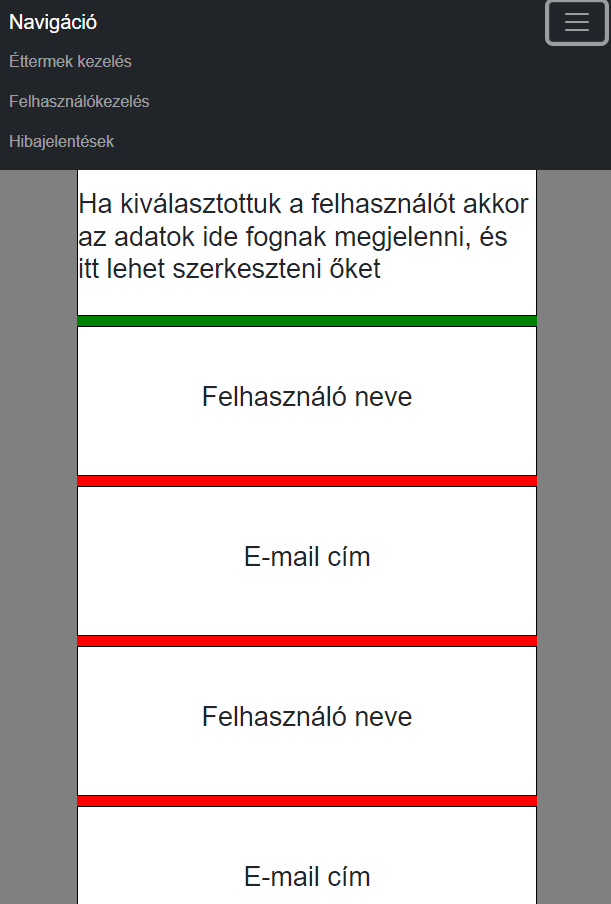
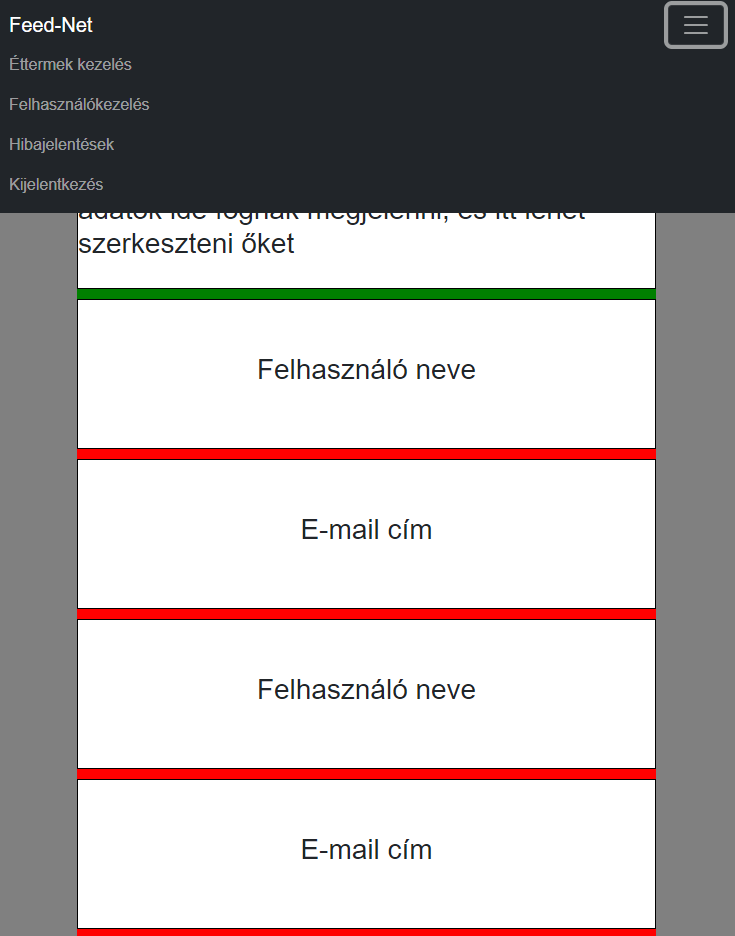
Layout képek frissítése

Changed region(s): [[0.0, 0.0, 1.0, 1.0], [0.8707, 0.0, 1.0, 0.0619]]

diff --git a/Layout/admin.html b/Layout/admin.html
@@ -13,7 +13,7 @@
     <div id="menu">
         <nav class="navbar navbar-expand-md navbar-dark bg-dark" >
           <div class="container-fluid">
-            <a class="navbar-brand" href="#">Navigáció</a>
+            <a class="navbar-brand" href="#">Feed-Net</a>
             <button class="navbar-toggler " onclick="TopNav()" type="button" data-bs-toggle="collapse" data-bs-target="#navbarText" aria-controls="navbarText" aria-expanded="false" aria-label="Toggle navigation">
               <span class="navbar-toggler-icon"></span>
             </button>
@@ -28,7 +28,9 @@
                 <li class="nav-item">
                   <a class="nav-link" href="hibajelentesek.html">Hibajelentések</a>
                 </li>
-                
+                <li class="nav-item">
+                  <a class="nav-link reg" href="login.html">Kijelentkezés</a>
+                </li>
               </ul>
             </div>
           </div>

diff --git a/Layout/felhasznaloszerkesztes.html b/Layout/felhasznaloszerkesztes.html
@@ -12,7 +12,7 @@
     <div id="menu">
         <nav class="navbar navbar-expand-md navbar-dark bg-dark" >
           <div class="container-fluid">
-            <a class="navbar-brand" href="#">Navigáció</a>
+            <a class="navbar-brand" href="#">Feed-Net</a>
             <button class="navbar-toggler " onclick="TopNav()" type="button" data-bs-toggle="collapse" data-bs-target="#navbarText" aria-controls="navbarText" aria-expanded="false" aria-label="Toggle navigation">
               <span class="navbar-toggler-icon"></span>
             </button>
@@ -27,7 +27,9 @@
                 <li class="nav-item">
                   <a class="nav-link" href="hibajelentesek.html">Hibajelentések</a>
                 </li>
-                
+                <li class="nav-item">
+                  <a class="nav-link reg" href="login.html">Kijelentkezés</a>
+                </li>
               </ul>
             </div>
           </div>

diff --git a/Layout/hibajelentesek.html b/Layout/hibajelentesek.html
@@ -13,7 +13,7 @@
     <div id="menu">
         <nav class="navbar navbar-expand-md navbar-dark bg-dark" >
           <div class="container-fluid">
-            <a class="navbar-brand" href="#">Navigáció</a>
+            <a class="navbar-brand" href="#">Feed-Net</a>
             <button class="navbar-toggler " onclick="TopNav()" type="button" data-bs-toggle="collapse" data-bs-target="#navbarText" aria-controls="navbarText" aria-expanded="false" aria-label="Toggle navigation">
               <span class="navbar-toggler-icon"></span>
             </button>
@@ -28,7 +28,9 @@
                 <li class="nav-item">
                   <a class="nav-link" href="hibajelentesek.html">Hibajelentések</a>
                 </li>
-                
+                <li class="nav-item">
+                  <a class="nav-link reg" href="login.html">Kijelentkezés</a>
+                </li>
               </ul>
             </div>
           </div>

diff --git a/Layout/login.html b/Layout/login.html
@@ -17,8 +17,8 @@
         </header>
         <main class="loginmain">
             <form action="/chat" class="loginform" method="POST">
-                <label class="loginlabel" for="nickname">Név:</label>
-                <input type="text" name="nickname" class="form-control mb-2 animate__animated animate__fadeInDown" placeholder="Név " >
+                <label class="loginlabel" for="nickname">E-mail cím:</label>
+                <input type="text" name="nickname" class="form-control mb-2 animate__animated animate__fadeInDown" placeholder="E-mail cím " >
                 <label for="password" class="loginlabel">Jelszó:</label>
                 <input type="text" name="password" class="form-control mb-2 animate__animated animate__fadeInRight" placeholder="Jelszó" >
                 <button input type="button" class="btn btn-secondary mt-2">Bejelentkezés</button>

diff --git a/Layout/index.html b/Layout/index.html
@@ -25,7 +25,7 @@
       <div id="menu">
         <nav class="navbar navbar-expand-md navbar-dark bg-dark" >
           <div class="container-fluid">
-            <a class="navbar-brand" href="#">Navigáció</a>
+            <a class="navbar-brand" href="#">Feed-Net</a>
             <button class="navbar-toggler " onclick="TopNav()" type="button" data-bs-toggle="collapse" data-bs-target="#navbarText" aria-controls="navbarText" aria-expanded="false" aria-label="Toggle navigation">
               <span class="navbar-toggler-icon"></span>
             </button>

diff --git a/Layout/gyik.html b/Layout/gyik.html
@@ -12,7 +12,7 @@
     <div id="menu">
         <nav class="navbar navbar-expand-md navbar-dark bg-dark" >
           <div class="container-fluid">
-            <a class="navbar-brand" href="#">Navigáció</a>
+            <a class="navbar-brand" href="#">Feed-Net</a>
             <button class="navbar-toggler " onclick="" type="button" data-bs-toggle="collapse" data-bs-target="#navbarText" aria-controls="navbarText" aria-expanded="false" aria-label="Toggle navigation">
               <span class="navbar-toggler-icon"></span>
             </button>

diff --git a/Layout/Bérlés.html b/Layout/Bérlés.html
@@ -12,7 +12,7 @@
   <div id="menu">
     <nav class="navbar navbar-expand-md navbar-dark bg-dark" >
       <div class="container-fluid">
-        <a class="navbar-brand" href="#">Navigáció</a>
+        <a class="navbar-brand" href="#">Feed-Net</a>
         <button class="navbar-toggler " onclick="TopNav()" type="button" data-bs-toggle="collapse" data-bs-target="#navbarText" aria-controls="navbarText" aria-expanded="false" aria-label="Toggle navigation">
           <span class="navbar-toggler-icon"></span>
         </button>

diff --git a/Layout/helyfoglalas.html b/Layout/helyfoglalas.html
@@ -12,7 +12,7 @@
   <div id="menu">
     <nav class="navbar navbar-expand-md navbar-dark bg-dark" >
       <div class="container-fluid">
-        <a class="navbar-brand" href="#">Navigáció</a>
+        <a class="navbar-brand" href="#">Feed-Net</a>
         <button class="navbar-toggler " onclick="TopNav()" type="button" data-bs-toggle="collapse" data-bs-target="#navbarText" aria-controls="navbarText" aria-expanded="false" aria-label="Toggle navigation">
           <span class="navbar-toggler-icon"></span>
         </button>

diff --git a/Layout/kedvencettermek.html b/Layout/kedvencettermek.html
@@ -12,7 +12,7 @@
   <div id="menu">
     <nav class="navbar navbar-expand-md navbar-dark bg-dark" >
       <div class="container-fluid">
-        <a class="navbar-brand" href="#">Navigáció</a>
+        <a class="navbar-brand" href="#">Feed-Net</a>
         <button class="navbar-toggler " onclick="" type="button" data-bs-toggle="collapse" data-bs-target="#navbarText" aria-controls="navbarText" aria-expanded="false" aria-label="Toggle navigation">
           <span class="navbar-toggler-icon"></span>
         </button>

diff --git a/Layout/kivalasztott.html b/Layout/kivalasztott.html
@@ -23,7 +23,7 @@
   <div id="menu">
     <nav class="navbar navbar-expand-md navbar-dark bg-dark" >
       <div class="container-fluid">
-        <a class="navbar-brand" href="#">Navigáció</a>
+        <a class="navbar-brand" href="#">Feed-Net</a>
         <button class="navbar-toggler " onclick="" type="button" data-bs-toggle="collapse" data-bs-target="#navbarText" aria-controls="navbarText" aria-expanded="false" aria-label="Toggle navigation">
           <span class="navbar-toggler-icon"></span>
         </button>
